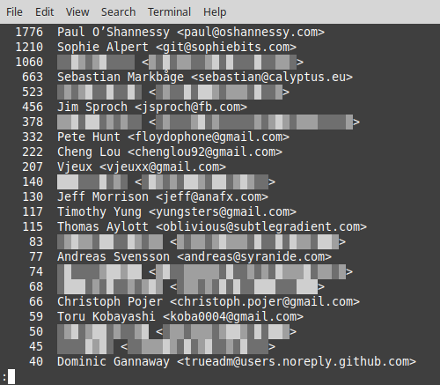
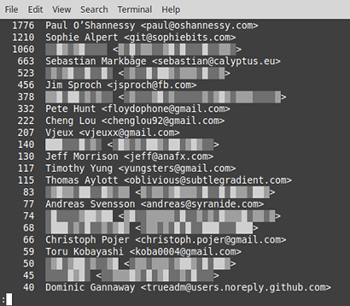
Reenabled hardware check. Resized images. Added keywords to package.json.

diff --git a/bin/index.js b/bin/index.js
@@ -84,8 +84,8 @@ try {
         printVersion();
     } else {
         checkWorkingDirectory();
-        //checkHardwareSupport(options);
-        //checkHardwareLocations();
+        checkHardwareSupport(options);
+        checkHardwareLocations();
 
         var authors = getCommitAuthors();
         var authorsChosen = performRandomFairSelection(authors);
